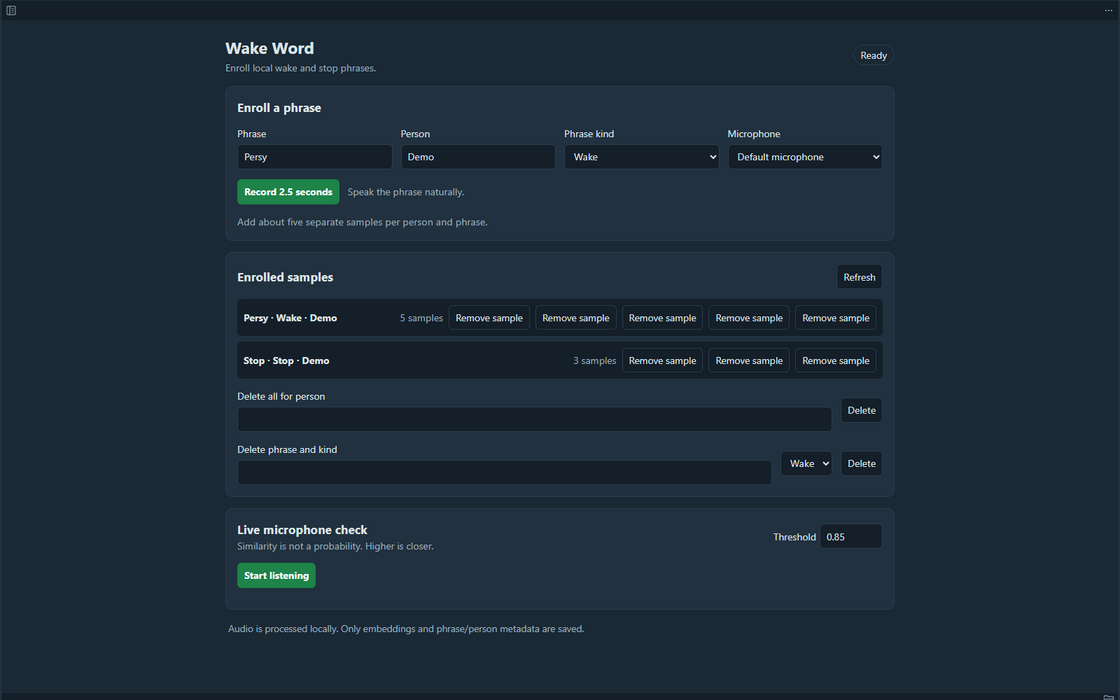
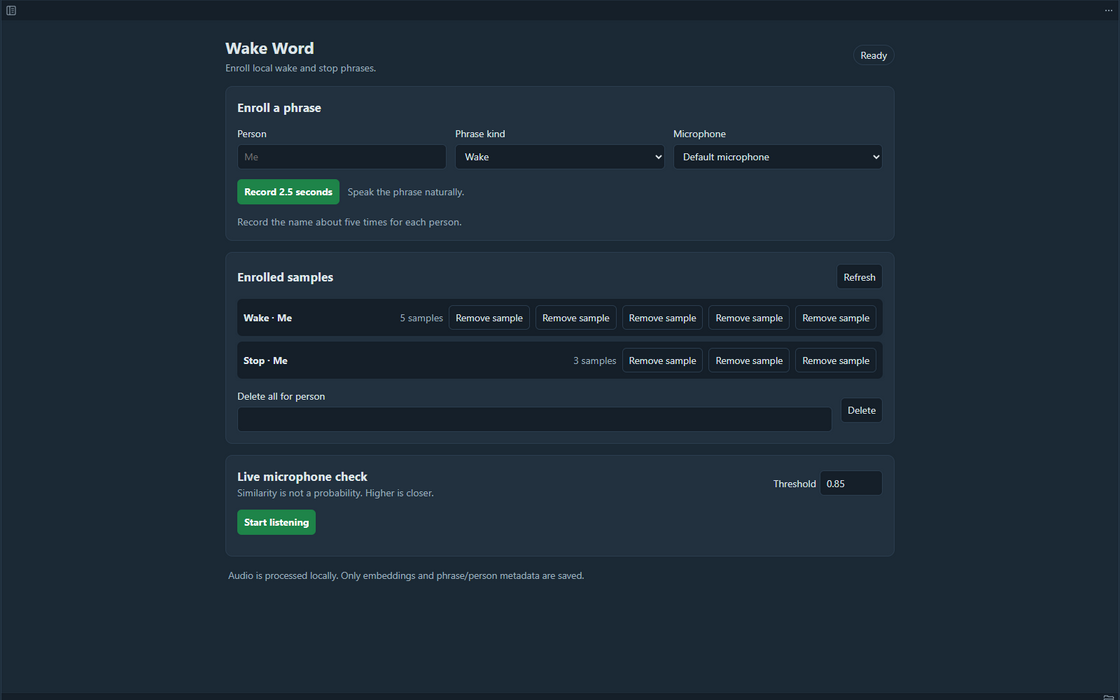
BT-083: fix wake matching, simplify enrollment to person only
Matching (user-reported: every word was logged as a wake hit):
- The subsequence DTW path must now end at the newest embedding, the cost
  is divided by the path length, horizontal stretch is limited to 2L, and
  only the newest 2L + 4 embeddings are searched, as in the US-1783
  prototype. Before, each new frame re-found an older hit anywhere in the
  last 8 s and a template could collapse onto one frame.
- Templates run from 240 ms after speech starts to 320 ms after it ends,
  cut from the whole padded recording; enrollment "match" uses DTW
  between samples. Samples carry frontendVersion 2; older ones are listed
  but never matched.
- Synthetic check: names 0.86-0.91, unrelated speech 0.62-0.69. The user
  verified with their own voice: called names always trigger, the same
  words in ordinary speech never do.

Enrollment form (user decision): no phrase input (the phrase is the kind),
Person defaults to "Me"; unused strings removed and the hint reworded in all
18 packs; screenshot retaken.

diff --git a/boards/wake-word/app.js b/boards/wake-word/app.js
@@ -1,6 +1,7 @@
 "use strict";
 (() => {
   const $ = (id) => document.getElementById(id), format = { encoding: "pcm-s16le", sampleRate: 16000, channels: 1 };
+  const DEFAULT_PERSON = "Me";
   let current = null, diagnostics = null, capture = null, sendQueue = Promise.resolve(), mode = "", timer = null, devices = [];
   const say = (key, params) => t(key, params);
   function setStatus(key) { $("status").textContent = say(key); }
@@ -20,7 +21,8 @@
         setStatus(message.quality.accepted ? "status.ready" : "status.quality"); refreshList();
       } else if (message.type === "diagnostic") $("live-score").textContent = say("live.score", { score: message.score.toFixed(3) });
       else if (message.type === "wake" || message.type === "stop") {
-        const li = document.createElement("li"); li.textContent = `${message.kind || message.type}: “${message.phrase}” · ${message.person} · ${(message.score * 100).toFixed(1)}% · ${(message.time / 1000).toFixed(2)} s`;
+        const custom = message.phrase !== message.type ? ` “${message.phrase}”` : "";
+        const li = document.createElement("li"); li.textContent = `${say(`kind.${message.type}`)}${custom} · ${message.person} · ${(message.score * 100).toFixed(1)}% · ${(message.time / 1000).toFixed(2)} s`;
         $("events").prepend(li); while ($("events").children.length > 30) $("events").lastElementChild.remove();
       } else if (message.type === "enrollments") renderList(message.phrases);
       else if (message.type === "deleted") { setStatus("status.deleted"); refreshList(); }
@@ -52,8 +54,10 @@
   }
   async function finishStream() { await new Promise((resolve) => setTimeout(resolve, 120)); stopCapture(); await sendQueue; await send({ type: "end" }); }
   async function beginEnrollment() {
-    clearError(); const phrase = $("phrase").value, person = $("person").value, kind = $("kind").value;
-    if (!phrase.trim() || !person.trim()) { showError(say("error.required")); return; }
+    // Every enrolled sample of a kind is a wake (or stop) word, so the contract's phrase is just the
+    // kind. The person tells the assistant's agent who is speaking; empty means "Me" (not translated,
+    // so a person's samples stay together whatever the interface language).
+    clearError(); const kind = $("kind").value, phrase = kind, person = $("person").value.trim() || DEFAULT_PERSON;
     try {
       mode = "enroll"; $("record").disabled = true; $("recording").textContent = say("enroll.recording"); setStatus("status.recording");
       await open({ type: "enroll", phrase, kind, person, format }); await startCapture();
@@ -79,7 +83,9 @@
     if (!groups?.length) { host.textContent = say("samples.empty"); return; }
     for (const group of groups) {
       const row = document.createElement("div"); row.className = "sample-group";
-      const label = document.createElement("strong"); label.textContent = `${group.phrase} · ${say(`kind.${group.kind}`)} · ${group.person}`; row.append(label);
+      // Samples enrolled before the phrase input was removed keep their own phrase as a label.
+      const custom = group.phrase !== group.kind ? `${group.phrase} · ` : "";
+      const label = document.createElement("strong"); label.textContent = `${custom}${say(`kind.${group.kind}`)} · ${group.person}`; row.append(label);
       const ids = document.createElement("span"); ids.className = "muted"; ids.textContent = say("samples.count", { count: group.samples.length }); row.append(ids);
       for (const sample of group.samples) {
         const button = document.createElement("button"); button.textContent = say("delete.sample"); button.title = sample.sampleId;
@@ -102,8 +108,6 @@
   $("record").addEventListener("click", () => void beginEnrollment());
   $("listen").addEventListener("click", () => mode === "listen" ? void stopListen() : void beginListen());
   $("refresh").addEventListener("click", refreshList);
-  $("delete-person-button").addEventListener("click", () => $("delete-person").value.trim() && void removeTarget({ person: $("delete-person").value }));
-  $("delete-phrase-button").addEventListener("click", () => $("delete-phrase").value.trim() && void removeTarget({ phrase: $("delete-phrase").value, kind: $("delete-kind").value }));
-  window.addEventListener("pagehide", () => { stopCapture(); if (current && !current.closed) current.close(); if (diagnostics && !diagnostics.closed) diagnostics.close(); });
+  $("delete-person-button").addEventListener("click", () => $("delete-person").value.trim() && void removeTarget({ person: $("delete-person").value }));  window.addEventListener("pagehide", () => { stopCapture(); if (current && !current.closed) current.close(); if (diagnostics && !diagnostics.closed) diagnostics.close(); });
   applyI18n(); void loadDevices(); void describe(); refreshList();
 })();

diff --git a/boards/wake-word/index.html b/boards/wake-word/index.html
@@ -15,8 +15,7 @@
     <section class="panel enrollment">
       <h2 data-i18n="enroll.title"></h2>
       <div class="form-grid">
-        <label><span data-i18n="field.phrase"></span><input id="phrase" maxlength="128" autocomplete="off"></label>
-        <label><span data-i18n="field.person"></span><input id="person" maxlength="128" autocomplete="off"></label>
+        <label><span data-i18n="field.person"></span><input id="person" maxlength="128" autocomplete="off" placeholder="Me"></label>
         <label><span data-i18n="field.kind"></span><select id="kind"><option value="wake" data-i18n="kind.wake"></option><option value="stop" data-i18n="kind.stop"></option></select></label>
         <label><span data-i18n="field.microphone"></span><select id="microphone"></select></label>
       </div>
@@ -26,9 +25,7 @@
     <section class="panel">
       <div class="section-heading"><h2 data-i18n="samples.title"></h2><button id="refresh" data-i18n="common.refresh"></button></div>
       <div id="samples" class="sample-list"></div>
-      <div class="delete-row"><label><span data-i18n="delete.person"></span><input id="delete-person"></label><button id="delete-person-button" data-i18n="delete.run"></button></div>
-      <div class="delete-row"><label><span data-i18n="delete.phrase"></span><input id="delete-phrase"></label><select id="delete-kind"><option value="wake" data-i18n="kind.wake"></option><option value="stop" data-i18n="kind.stop"></option></select><button id="delete-phrase-button" data-i18n="delete.run"></button></div>
-    </section>
+      <div class="delete-row"><label><span data-i18n="delete.person"></span><input id="delete-person"></label><button id="delete-person-button" data-i18n="delete.run"></button></div>    </section>
     <section class="panel live-panel">
       <div class="section-heading"><div><h2 data-i18n="live.title"></h2><p class="muted" data-i18n="live.hint"></p></div><label class="threshold"><span data-i18n="live.threshold"></span><input id="threshold" type="number" min="0" max="1" step="0.01" value="0.85"></label></div>
       <div class="actions"><button id="listen" class="primary" data-i18n="live.start"></button><span id="live-score" class="muted"></span></div>

diff --git a/boards/wake-word/app.css b/boards/wake-word/app.css
@@ -8,7 +8,7 @@ h1, h2, p { margin: 0; } h1 { font-size: 1.45rem; } h2 { font-size: 1.08rem; }
 .page-header p, .muted, .hint, footer { color: var(--p-text-muted); }
 .pill { padding: 3px 10px; border: 1px solid var(--p-border); border-radius: 999px; white-space: nowrap; }
 .panel { border: 1px solid var(--p-border); background: var(--p-panel); border-radius: 10px; padding: 16px; display: grid; gap: 14px; }
-.form-grid { display: grid; grid-template-columns: repeat(4, minmax(0, 1fr)); gap: 12px; }
+.form-grid { display: grid; grid-template-columns: repeat(3, minmax(0, 1fr)); gap: 12px; }
 label { display: grid; gap: 5px; min-width: 0; }
 label > input, label > select { width: 100%; min-width: 0; }
 input, select, button { min-height: 36px; border: 1px solid var(--p-border); border-radius: 6px; padding: 6px 9px; color: var(--p-text); background: var(--p-bg-dark); font: inherit; }

diff --git a/doc/tasks/BT-083-wake-word/README.md b/doc/tasks/BT-083-wake-word/README.md
@@ -79,6 +79,11 @@ Checked from the app side through `api.connectHostServiceChannel("speech.wake")`
 - **Bug found and fixed (reviewer):** the board page's own channels were all refused — `allowed()` and the diagnostics check required `info.page.boardId === "wake-word"`, but `boardId` is the page instance id. Own page is now "no `info.interface`" (`isOwnPage()` in `scripts/service.mjs`), as in Speech to Text. Before the fix the page could not list, enroll or listen.
 - **Layout fix (reviewer):** the Microphone select overflowed its card; `label > input, label > select` now fill their grid cell.
 - `screenshot.png` captured (1120×700) with synthetic "Demo" enrollments and a generic microphone label; the demo enrollments were deleted afterwards.
+- **User-reported bug, fixed (2026-11-07):** after a real enrollment, every word the user said was logged as a wake hit. Causes: (1) the listen loop took the best match ending *anywhere* in the last 8 s of history, so every later frame re-found an earlier hit; (2) DTW cost was divided by the template length with unlimited compression, so a template could collapse onto one live frame; (3) templates started on padding silence. Ported the research prototype's method: the DTW path must end at the newest embedding, cost divided by path length, horizontal stretch limited to 2L, window of the newest 2L + 4 embeddings, a template only scored once the history is as long as it; templates run from 240 ms after speech start to 320 ms after speech end of the whole recording. Enrollment `match` now uses DTW between samples instead of an all-pairs mean. Samples carry `frontendVersion` 2; older ones are listed but never matched (re-enroll).
+- After the fix, synthetic check (5 enrolled "Persy!", 29 s stream): the name in three variants scored 0.86–0.91 and was detected; unrelated sentences ("weather", "play the next episode", "Persian cat", "every person") scored 0.62–0.69, below 0.85. "Percy" inside a sentence scored 0.86 (the same word in the same synthetic voice).
+- Robustness note: the service buffers listen audio in its own queue (cap 256 chunks) and acknowledges at once, so a producer faster than real time fails with `engine-failed` instead of being slowed by channel backpressure. Real-time microphone input is unaffected; worth fixing before other consumers rely on it.
+- **User test passed (2026-11-07):** the user enrolled "Persy", "Persephone" and "Luna" with a calling intonation. Called, each triggered every time; used in ordinary speech, they never triggered.
+- **Enrollment form (user decision):** no phrase input — the contract's `phrase` is set to the kind (`wake` / `stop`), because every enrolled sample of a kind is matched; the Person input has placeholder "Me" and an empty value enrolls as "Me" (not translated, so a person's samples stay together across interface languages). The "Delete phrase and kind" row was removed; older samples with their own phrase keep it as a label. Unused strings removed and the enrollment hint reworded in all 18 packs; `screenshot.png` retaken.
 - Pending (user-assisted): real enrollment by people with the microphone, threshold calibration, the mic-only film test, the page UI walk-through, `screenshot.png`.
 
 ## Acceptance Criteria

diff --git a/boards/wake-word/CLAUDE.md b/boards/wake-word/CLAUDE.md
@@ -18,11 +18,15 @@ matched by query-by-example. Persephone's voice assistant (EPIC-139) streams mic
   JS in `scripts/engine.mjs`; they reproduce Google's own preprocessing exactly.
 - **Runtime:** `onnxruntime-web` (WASM) vendored under `vendor/onnxruntime-web/` — about 5.7% of
   one core per active stream; no native addon.
-- **Matching:** each enrolled sample is a sequence of 96-dimensional embeddings (every 80 ms);
-  live audio is matched by subsequence DTW over cosine distance. Score = `1 - distance`;
-  `defaultThreshold` 0.85 is provisional until calibrated with real voices.
-- **Enrollment clips are padded** with one model window of silence before embedding: a quickly
-  called name is shorter than the 775 ms the model needs for its first embedding.
+- **Templates** (`encodeTemplate`, `TEMPLATE` constants in `scripts/engine.mjs`), as in the
+  US-1783 research prototype: the whole recording is padded with one model window of silence in
+  front (a quickly called name is shorter than the 775 ms the model needs), and the template runs
+  from 3 steps (240 ms) after speech starts to 4 steps (320 ms) after it ends, one 96-dimensional
+  embedding per 80 ms. Samples carry `frontendVersion`; only `TEMPLATE_VERSION` samples are matched.
+- **Matching** (`subsequenceDistance`): subsequence DTW over cosine distance whose path must END at
+  the newest live embedding, normalized by path length, horizontal stretch limited to 2L, over the
+  newest 2L + 4 embeddings only. Without the end anchor every new frame re-finds an older hit and
+  any speech "triggers". Score = `1 - distance`; `defaultThreshold` 0.85 is provisional.
 - **Storage:** only embeddings and phrase/person metadata, in
   `%LOCALAPPDATA%/Persephone/board-data/wake-word/enrollments-v1.json`. No audio is stored.
 - **Caller policy:** a channel without `info.interface` is the board's own page
